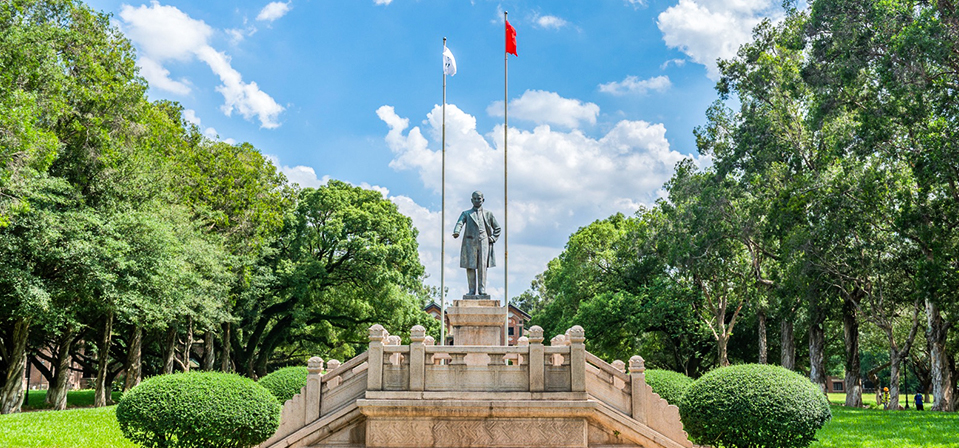
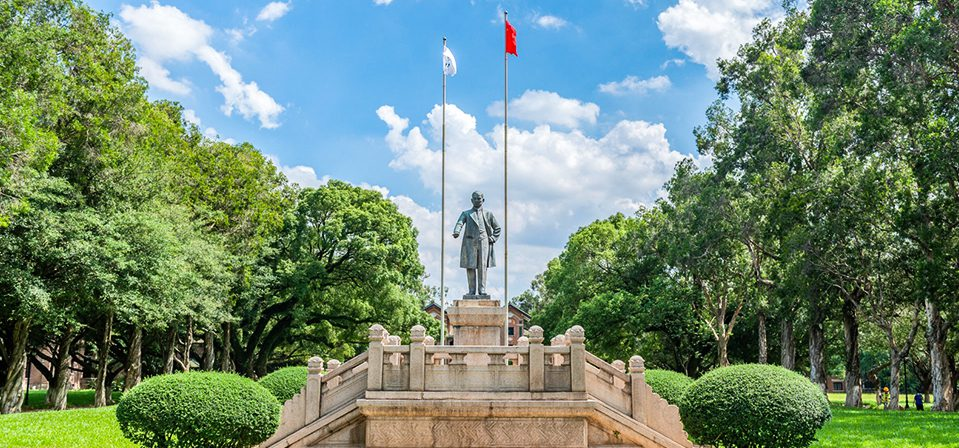
Optimize campus page assets

diff --git a/index.html b/index.html
@@ -75,7 +75,7 @@
               <span>深圳校区 <b>→</b></span>
             </button>
             <button class="campus-card" type="button">
-              <img src="./assets/sysu/zhuhai.png" alt="珠海校区">
+              <img src="./assets/sysu/zhuhai.jpg" alt="珠海校区">
               <span>珠海校区 <b>→</b></span>
             </button>
             <button class="campus-card reservation-entry" type="button">
